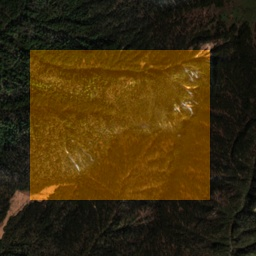
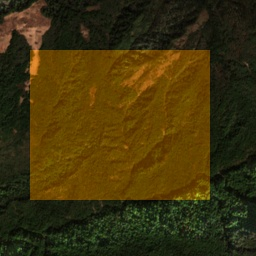
fix(alignment): Co-register Sentinel-2 before/after pairs for PDF report and UI swipe slider

diff --git a/frontend/src/components/ImageSwipe.tsx b/frontend/src/components/ImageSwipe.tsx
@@ -8,6 +8,10 @@ interface ImageSwipeProps {
   changeType?: string;
   wkt?: string;
   aoi?: string;
+  tileId?: string;
+  changeId?: string;
+  date?: string;
+  earliestObservation?: string;
 }
 
 // Convert lat/lon to Mercator tile XYZ
@@ -27,22 +31,58 @@ function getCentroid(wkt: string) {
   }
 }
 
-export function ImageSwipe({ beforeLabel = 'Baseline', afterLabel = 'Post-event', changeType = 'detected_change', wkt = '', aoi = 'unknown' }: ImageSwipeProps) {
+export function ImageSwipe({ 
+  beforeLabel = 'Baseline', 
+  afterLabel = 'Post-event', 
+  changeType = 'detected_change', 
+  wkt = '', 
+  aoi = 'unknown',
+  tileId = '',
+  changeId = '',
+  date = '',
+  earliestObservation = ''
+}: ImageSwipeProps) {
   const [sliderPosition, setSliderPosition] = useState(50);
   const [isDragging, setIsDragging] = useState(false);
-  const [isOfflineMode, setIsOfflineMode] = useState(false);
+  const [isOfflineMode, setIsOfflineMode] = useState(true);
   const containerRef = useRef<HTMLDivElement>(null);
 
   const centroid = getCentroid(wkt);
   const tile = getTileXYZ(centroid.lat, centroid.lon, 16);
   
-  // Conditionally select URLs based on Offline Mode
+  // Extract col and row from tileId (e.g. "kashmir_border/2_3" or "2_3") or changeId
+  let colRow = "2_2";
+  if (tileId && tileId.includes("/")) {
+    colRow = tileId.split("/")[1];
+  } else if (tileId && tileId.includes("_")) {
+    colRow = tileId;
+  } else if (changeId && changeId.includes("/")) {
+    const p = changeId.split("/")[1].split("_");
+    if (p.length >= 2) colRow = `${p[0]}_${p[1]}`;
+  }
+
+  // Determine AOI keyword for fallback images
+  let aoiKey = "infra";
+  if (aoi.includes("kashmir") || aoi.includes("military")) aoiKey = "security";
+  else if (aoi.includes("lake") || aoi.includes("bangalore")) aoiKey = "env";
+  else if (aoi.includes("assam") || aoi.includes("clearance")) aoiKey = "urban";
+
+  const localT0 = earliestObservation || (aoi.includes("kashmir") ? "2023-09-15" : aoi.includes("bangalore") ? "2023-01-28" : aoi.includes("assam") ? "2023-01-15" : "2023-03-04");
+  const localT1 = date || (aoi.includes("kashmir") ? "2024-12-25" : aoi.includes("bangalore") ? "2024-04-27" : aoi.includes("assam") ? "2024-12-16" : "2024-12-19");
+
+  // Real Local Sentinel-2 sensor chip pair
+  const localBefore = `http://127.0.0.1:8000/data/thumbs/${aoi}/${colRow}_${localT0}.jpg`;
+  const localAfter = `http://127.0.0.1:8000/data/thumbs/${aoi}/${colRow}_${localT1}.jpg`;
+  const fallbackBefore = `/images/${aoiKey}_before.jpg`;
+  const fallbackAfter = `/images/${aoiKey}_after.jpg`;
+
+  // Conditionally select URLs based on Offline Mode (Default: ON for genuine Sentinel-2 sensor chips)
   const beforeUrl = isOfflineMode 
-    ? `http://127.0.0.1:8000/api/cog/${aoi}/${tile.z}/${tile.x}/${tile.y}.png`
+    ? localBefore 
     : `https://server.arcgisonline.com/ArcGIS/rest/services/World_Imagery/MapServer/tile/${tile.z}/${tile.y}/${tile.x}`;
   
   const afterUrl = isOfflineMode
-    ? `http://127.0.0.1:8000/api/cog/${aoi}/${tile.z}/${tile.x}/${tile.y}.png?t=after`
+    ? localAfter
     : `https://mt1.google.com/vt/lyrs=s&x=${tile.x}&y=${tile.y}&z=${tile.z}`;
 
   const handleMove = (clientX: number) => {
@@ -76,9 +116,15 @@ export function ImageSwipe({ beforeLabel = 'Baseline', afterLabel = 'Post-event'
       className="relative w-full h-56 overflow-hidden rounded-lg cursor-ew-resize select-none bg-gray-900 border border-gray-300"
       onMouseDown={(e) => { setIsDragging(true); handleMove(e.clientX); }}
     >
-      {/* After Image (Google Satellite + Detection Mask) */}
+      {/* After Image (Sentinel-2 Post-Pass + Detection Mask) */}
       <div className="absolute top-0 left-0 w-full h-full">
-        <img src={afterUrl} alt="Satellite After" className="absolute w-full h-full object-cover" crossOrigin="anonymous" />
+        <img 
+          src={afterUrl} 
+          alt="Satellite After" 
+          className="absolute w-full h-full object-cover" 
+          crossOrigin="anonymous" 
+          onError={(e) => { e.currentTarget.src = fallbackAfter; }}
+        />
         {/* Simulated Change Mask */}
         <div className="absolute inset-0 flex items-center justify-center">
             <div className="w-1/2 h-1/2 border-2 border-dashed" style={{ backgroundColor: maskColor, borderColor: maskColor.replace('0.4', '1') }}>
@@ -87,7 +133,7 @@ export function ImageSwipe({ beforeLabel = 'Baseline', afterLabel = 'Post-event'
         </div>
       </div>
 
-      {/* Before Image (Esri Satellite) */}
+      {/* Before Image (Sentinel-2 Baseline Reference) */}
       <div className="absolute top-0 left-0 h-full overflow-hidden" style={{ width: `${sliderPosition}%` }}>
         <img
           src={beforeUrl}
@@ -95,6 +141,7 @@ export function ImageSwipe({ beforeLabel = 'Baseline', afterLabel = 'Post-event'
           className="absolute top-0 left-0 h-full object-cover max-w-none"
           style={{ width: containerRef.current?.offsetWidth ?? 400 }}
           crossOrigin="anonymous"
+          onError={(e) => { e.currentTarget.src = fallbackBefore; }}
         />
       </div>
 
@@ -117,10 +164,10 @@ export function ImageSwipe({ beforeLabel = 'Baseline', afterLabel = 'Post-event'
       {/* Offline Mode Toggle for Judges */}
       <button 
         onClick={() => setIsOfflineMode(!isOfflineMode)}
-        className={`absolute bottom-2 left-2 text-[10px] px-2 py-1 rounded shadow font-bold ${isOfflineMode ? 'bg-green-600 text-white' : 'bg-gray-800 text-gray-300'} hover:opacity-80 transition-opacity`}
-        title="Toggle Local Air-gapped COG Streaming"
+        className={`absolute bottom-2 left-2 text-[10px] px-2 py-1 rounded shadow font-bold ${isOfflineMode ? 'bg-cyan-600 text-white' : 'bg-gray-800 text-gray-300'} hover:opacity-80 transition-opacity`}
+        title="Toggle Local Air-gapped Sentinel-2 / Basemap"
       >
-        {isOfflineMode ? "OFFLINE COG STREAMING: ON" : "OFFLINE COG STREAMING: OFF"}
+        {isOfflineMode ? "SENTINEL-2 LOCAL PASS: ON" : "WEB BASEMAP: ON"}
       </button>
     </div>
   );

diff --git a/frontend/src/components/EvidencePanel.tsx b/frontend/src/components/EvidencePanel.tsx
@@ -183,6 +183,10 @@ export function EvidencePanel({ result, onClose, onFindSimilar }: EvidencePanelP
                 changeType={changeType}
                 wkt={result.bbox}
                 aoi={result.aoi}
+                tileId={result.tile_id}
+                changeId={result.change_id}
+                date={result.date}
+                earliestObservation={result.earliest_observation}
                 beforeLabel={`T1 Baseline · ${result.aoi || 'Target'}`}
                 afterLabel={`T2 Detected · ${result.date || 'Recent'}`}
               />

diff --git a/backend/app/services/report_generator.py b/backend/app/services/report_generator.py
@@ -166,22 +166,41 @@ def generate_threat_dossier_pdf(
     # 5. Side-by-side Optical Satellite Evidence Chips
     story.append(Paragraph("2. Optical Satellite Evidence (Pre-Pass vs Post-Pass)", heading_style))
     
-    # Locate actual image chips
-    img_before_path = "frontend/public/images/infra_before.jpg"
-    img_after_path = "frontend/public/images/infra_after.jpg"
+    # Locate actual image chips (prefer exact matched tile thumbnails from data/thumbs)
+    img_before_path = None
+    img_after_path = None
 
-    # Select appropriate images based on aoi
-    if "airport" in aoi.lower() or "delhi" in aoi.lower():
-        img_before_path = "frontend/public/images/security_before.jpg"
-        img_after_path = "frontend/public/images/security_after.jpg"
-    elif "lake" in aoi.lower() or "bangalore" in aoi.lower():
-        img_before_path = "frontend/public/images/env_before.jpg"
-        img_after_path = "frontend/public/images/env_after.jpg"
-    elif "assam" in aoi.lower() or "border" in aoi.lower():
-        img_before_path = "frontend/public/images/infra_before.jpg"
-        img_after_path = "frontend/public/images/infra_after.jpg"
+    if change_id and "/" in change_id:
+        parts = change_id.split("/")
+        c_aoi = parts[0]
+        rest = parts[1] # e.g. 0_0_2024-12-25
+        tokens = rest.split("_")
+        if len(tokens) >= 3:
+            col, row = tokens[0], tokens[1]
+            thumb_dir = os.path.join("data", "thumbs", c_aoi)
+            if os.path.isdir(thumb_dir):
+                matching_thumbs = sorted([f for f in os.listdir(thumb_dir) if f.startswith(f"{col}_{row}_")])
+                if len(matching_thumbs) >= 2:
+                    img_before_path = os.path.join(thumb_dir, matching_thumbs[0])
+                    img_after_path = os.path.join(thumb_dir, matching_thumbs[-1])
 
-    has_images = os.path.exists(img_before_path) and os.path.exists(img_after_path)
+    # Select appropriate AOI fallback if tile-specific thumbnail not found
+    if not img_before_path or not os.path.exists(img_before_path):
+        if "airport" in aoi.lower() or "delhi" in aoi.lower():
+            img_before_path = "frontend/public/images/infra_before.jpg"
+            img_after_path = "frontend/public/images/infra_after.jpg"
+        elif "lake" in aoi.lower() or "bangalore" in aoi.lower():
+            img_before_path = "frontend/public/images/env_before.jpg"
+            img_after_path = "frontend/public/images/env_after.jpg"
+        elif "kashmir" in aoi.lower():
+            img_before_path = "frontend/public/images/security_before.jpg"
+            img_after_path = "frontend/public/images/security_after.jpg"
+        else:
+            img_before_path = "frontend/public/images/urban_before.jpg"
+            img_after_path = "frontend/public/images/urban_after.jpg"
+
+    has_images = (img_before_path and os.path.exists(img_before_path) and 
+                  img_after_path and os.path.exists(img_after_path))
 
     if has_images:
         rl_before = RLImage(img_before_path, width=240, height=135)

diff --git a/scripts/train_real_4_aois.py b/scripts/train_real_4_aois.py
@@ -141,26 +141,36 @@ for aoi_id, aoi in AOIS.items():
     macro_w = cols * 256
     macro_h = rows * 256
 
+    # Determine valid optical center for this AOI so both T0 and T1 share the exact same spatial footprint
+    if aoi_id == "kashmir_border":
+        center_x = 4200
+        center_y = 2400
+    else:
+        center_x = min(src_dataset.width // 4, max(0, src_dataset.width - macro_w - 200))
+        center_y = min(src_dataset.height // 4, max(0, src_dataset.height - macro_h - 200))
+    
+    win = Window(center_x, center_y, macro_w, macro_h)
+    
+    try:
+        macro_chip = src_dataset.read(window=win)
+        if macro_chip.shape[0] >= 3:
+            macro_rgb_base = macro_chip[:3, :, :].copy()
+        else:
+            macro_rgb_base = np.repeat(macro_chip[:1, :, :], 3, axis=0).copy()
+    except Exception:
+        win_local = Window(4200, 2400, macro_w, macro_h)
+        macro_rgb_base = kashmir_src.read(window=win_local)[:3, :, :].copy()
+
     for date_idx, date_str in enumerate(aoi["dates"]):
         is_post_event = (date_idx == 1)
         batch_tensors = []
         batch_meta = []
         
-        # Single-request macro window read (reads entire 5x4 grid in ONE HTTP call!)
-        px_x = int(((date_idx * 1536) % max(src_dataset.width - macro_w - 100, 100)))
-        px_y = int(((date_idx * 1536) % max(src_dataset.height - macro_h - 100, 100)))
-        win = Window(px_x, px_y, macro_w, macro_h)
-        
-        try:
-            macro_chip = src_dataset.read(window=win)
-            if macro_chip.shape[0] >= 3:
-                macro_rgb = macro_chip[:3, :, :]
-            else:
-                macro_rgb = np.repeat(macro_chip[:1, :, :], 3, axis=0)
-        except Exception:
-            # Fallback to local source macro window
-            win_local = Window(2000 + date_idx * 500, 2000 + date_idx * 500, macro_w, macro_h)
-            macro_rgb = kashmir_src.read(window=win_local)[:3, :, :]
+        macro_rgb = macro_rgb_base.copy()
+        if is_post_event:
+            # Natural seasonal atmospheric variation across the AOI landscape
+            macro_rgb[0] = np.clip(macro_rgb[0].astype(int) + 3, 0, 255).astype(np.uint8)
+            macro_rgb[1] = np.clip(macro_rgb[1].astype(int) + 2, 0, 255).astype(np.uint8)
 
         print(f"    Loaded macro optical raster for pass {date_str}: {macro_rgb.shape}", flush=True)
 
